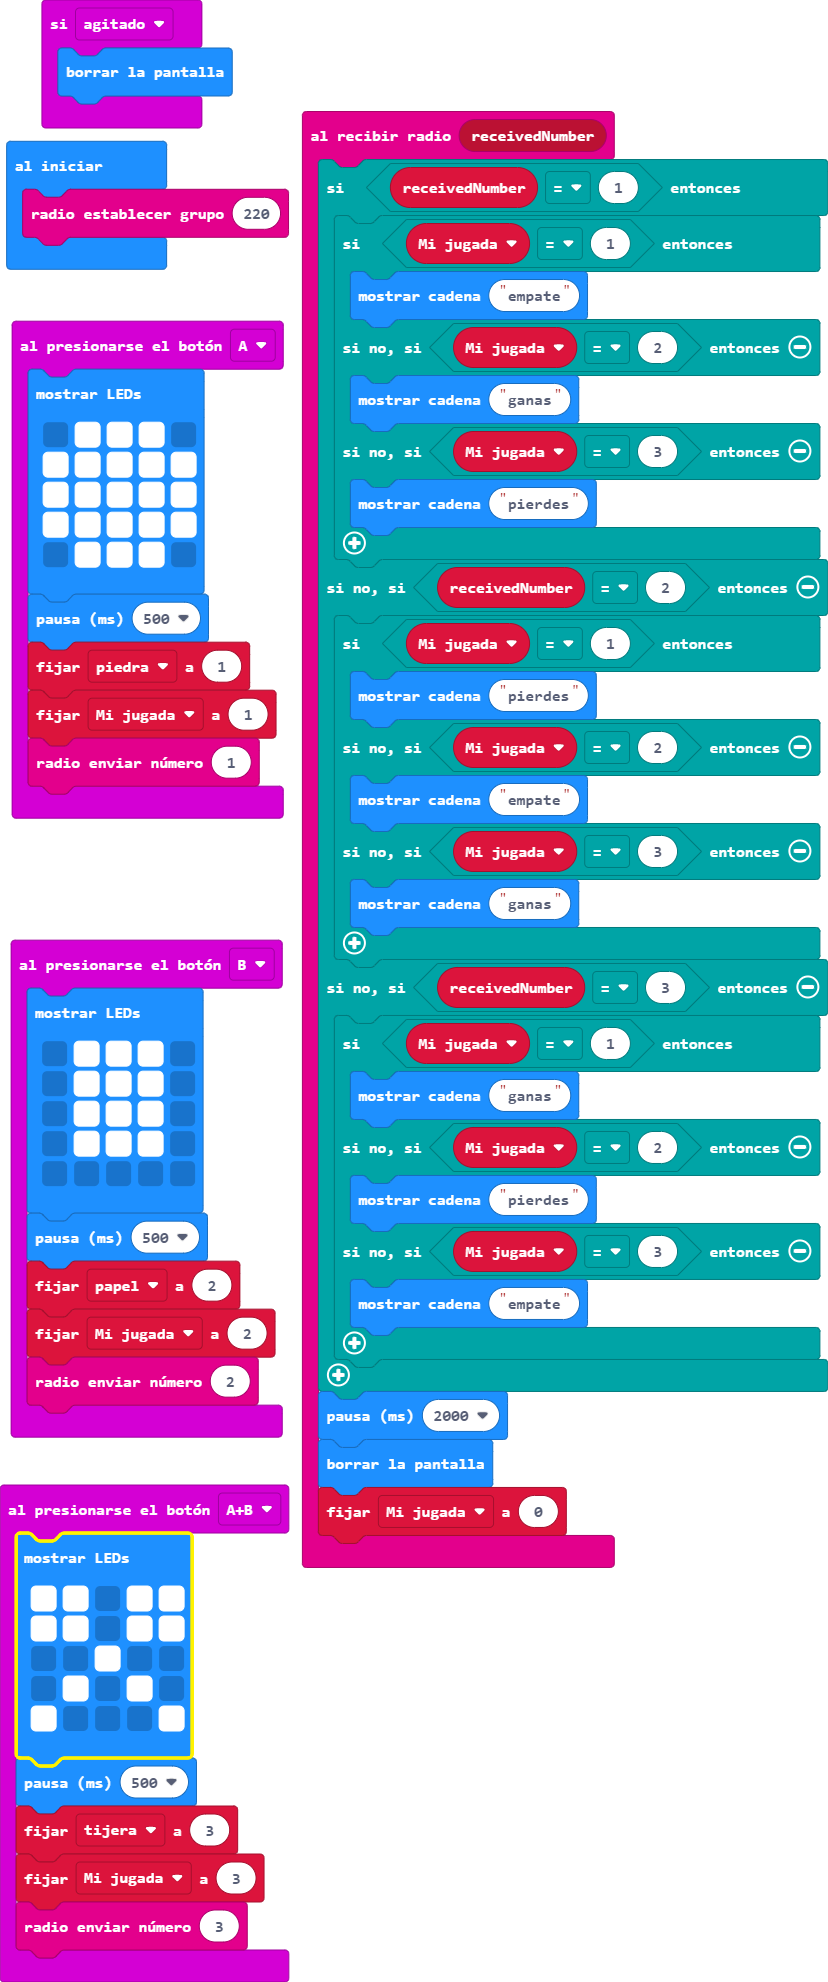
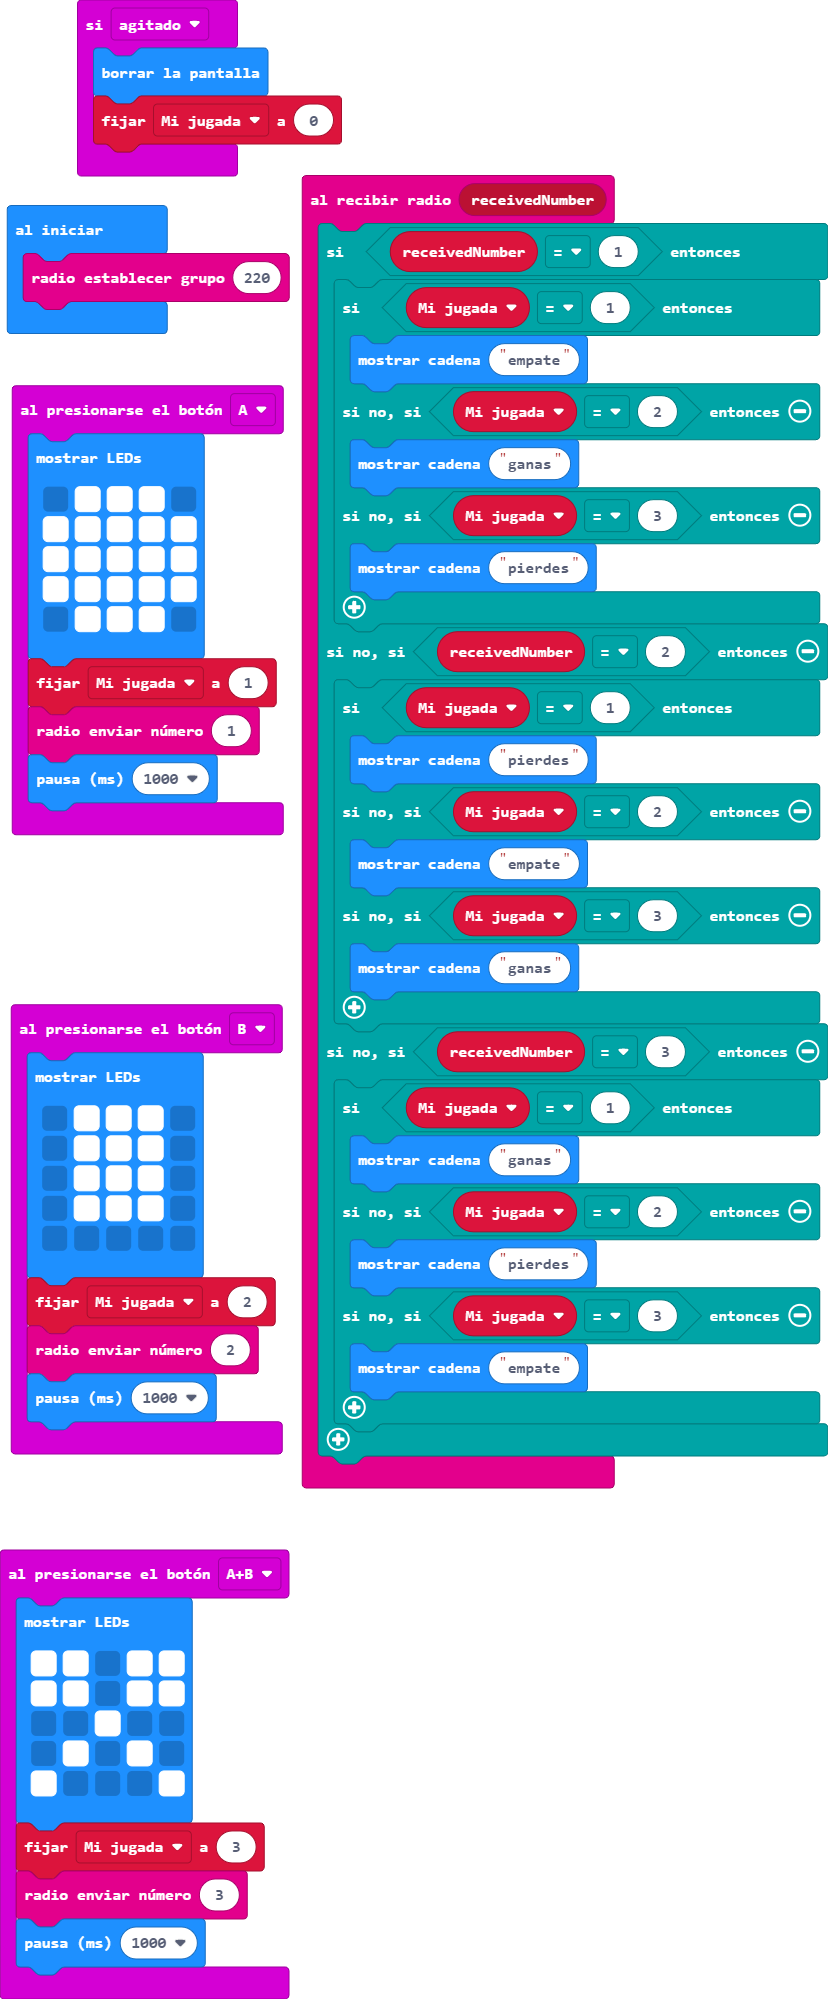
Actualizar main.blocks, main.ts

diff --git a/main.ts b/main.ts
@@ -24,9 +24,6 @@ radio.onReceivedNumber(function (receivedNumber) {
             basic.showString("empate")
         }
     }
-    basic.pause(2000)
-    basic.clearScreen()
-    Mi_jugada = 0
 })
 input.onButtonPressed(Button.A, function () {
     basic.showLeds(`
@@ -36,13 +33,13 @@ input.onButtonPressed(Button.A, function () {
         # # # # #
         . # # # .
         `)
-    basic.pause(500)
-    piedra = 1
     Mi_jugada = 1
     radio.sendNumber(1)
+    basic.pause(1000)
 })
 input.onGesture(Gesture.Shake, function () {
     basic.clearScreen()
+    Mi_jugada = 0
 })
 input.onButtonPressed(Button.AB, function () {
     basic.showLeds(`
@@ -52,10 +49,9 @@ input.onButtonPressed(Button.AB, function () {
         . # . # .
         # . . . #
         `)
-    basic.pause(500)
-    tijera = 3
     Mi_jugada = 3
     radio.sendNumber(3)
+    basic.pause(1000)
 })
 input.onButtonPressed(Button.B, function () {
     basic.showLeds(`
@@ -65,13 +61,9 @@ input.onButtonPressed(Button.B, function () {
         . # # # .
         . . . . .
         `)
-    basic.pause(500)
-    papel = 2
     Mi_jugada = 2
     radio.sendNumber(2)
+    basic.pause(1000)
 })
-let papel = 0
-let tijera = 0
-let piedra = 0
 let Mi_jugada = 0
 radio.setGroup(220)
